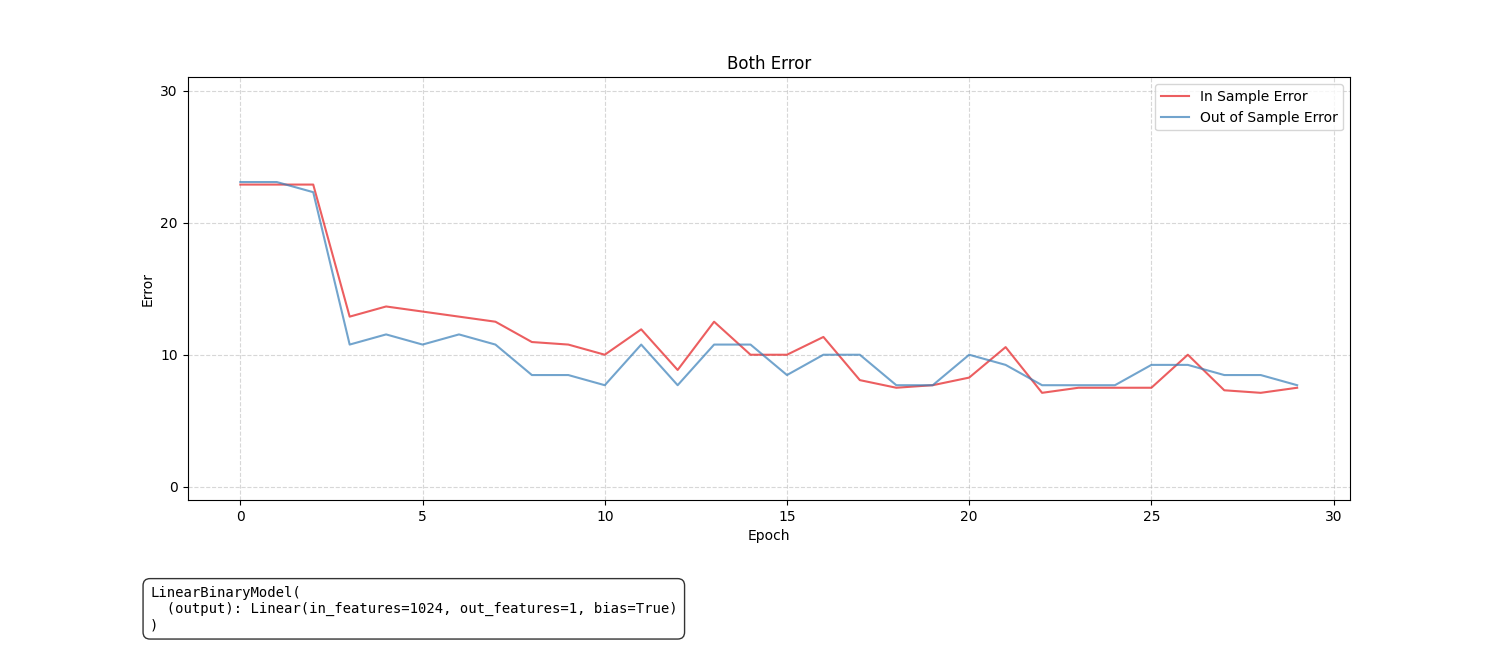
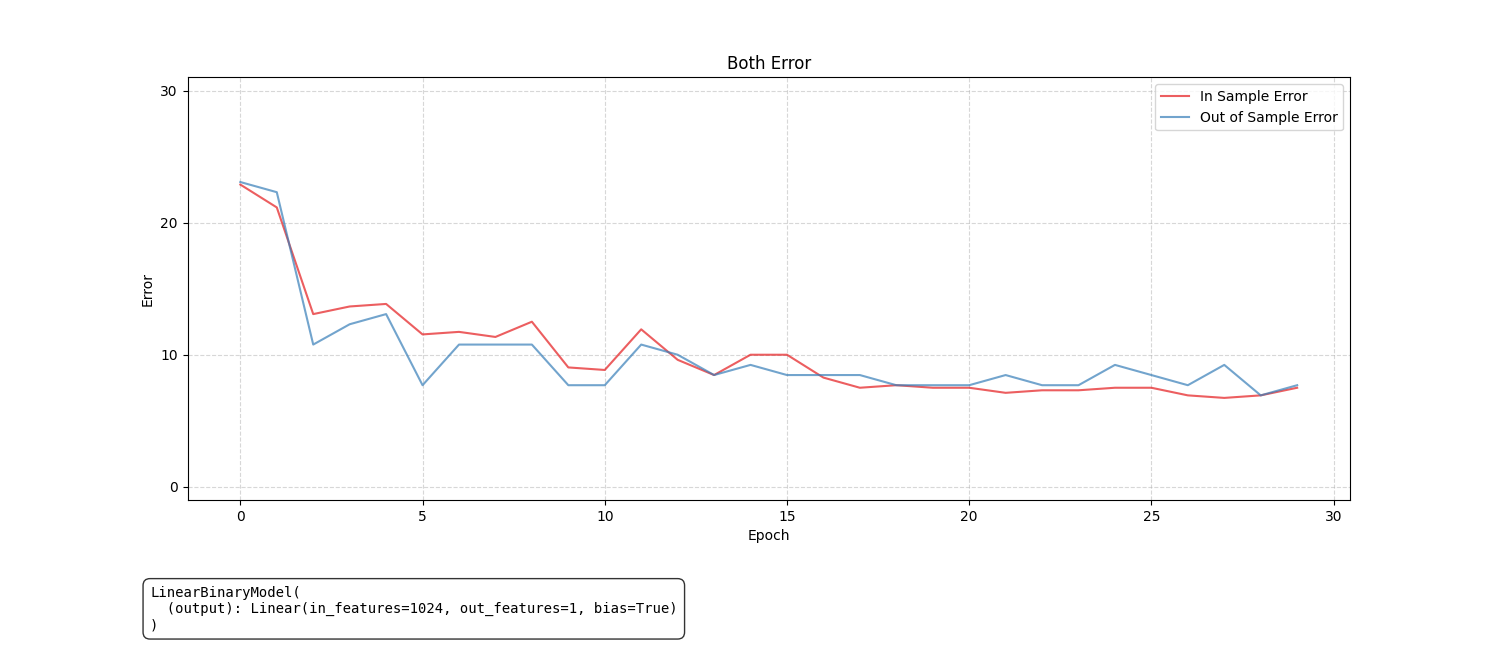
centralized the random_seed and made the model_loaded work

Changed region(s): [[0.184, 0.3721, 0.736, 0.6202], [0.736, 0.5581, 0.8587, 0.6202], [0.1533, 0.2791, 0.2147, 0.3721]]

diff --git a/train_linear_aelfric.py b/train_linear_aelfric.py
@@ -214,7 +214,7 @@ def load_data(config: dict) -> tuple[np.ndarray, np.ndarray, list[int], list[int
     ids = a_ids + u_ids
 
     # Randomly split the full works while keeping embeddings, IDs, and labels aligned
-    x_train, x_test, y_train, y_test, id_train, id_test = train_test_split(embeddings, y, ids, test_size=config["test_split"], random_state=config["random_seed"], stratify=y)
+    x_train, x_test, y_train, y_test, id_train, id_test = train_test_split(embeddings, y, ids, test_size=config["test_split"], stratify=y)
 
     # Save the Aelfric training embeddings for later use in predictions
     a_train_embeddings = x_train[np.array(y_train) == 1]  # Select embeddings where label is 1 (Aelfric)
@@ -230,7 +230,7 @@ labels: List of corresponding labels (1 for Aelfric, 0 for Unknown).
 num_samples: The number of samples to draw from each class.
 Returns: Two lists of concatenated embeddings.
 """
-def pair_embeddings(embs: list[np.ndarray], labels: list[int], num_samples:int = 250, random_seed: int = 42) -> tuple[list[np.ndarray], list[np.ndarray]]:
+def pair_embeddings(embs: list[np.ndarray], labels: list[int], num_samples:int = 250) -> tuple[list[np.ndarray], list[np.ndarray]]:
     a_embs = []
     u_embs = []
 
@@ -240,9 +240,9 @@ def pair_embeddings(embs: list[np.ndarray], labels: list[int], num_samples:int =
         else:
             u_embs.append(emb)
 
-    random.seed(random_seed)  # Ensure reproducibility for sampling
+    random.seed(config["random_seed"])  # Ensure reproducibility for sampling
     a_sample = random.sample(a_embs, k=min(num_samples, len(a_embs))) ### Eventually the samples need to be controlled better
-    random.seed(random_seed)  # Ensure reproducibility for sampling
+    random.seed(config["random_seed"])  # Ensure reproducibility for sampling
     u_sample = random.sample(u_embs, k=min(num_samples, len(u_embs)))
 
     aa_pairs = []
@@ -263,7 +263,7 @@ def pair_embeddings(embs: list[np.ndarray], labels: list[int], num_samples:int =
         for emb_b in a_sample:
             au_pairs.append(np.concatenate([emb_a, emb_b]))
 
-    random.seed(random_seed)  # Ensure reproducibility for sampling
+    random.seed(config["random_seed"])  # Ensure reproducibility for sampling
     au_sample = random.sample(au_pairs, k=min(num_samples*3, len(au_pairs)))  # Sample to limit size
 
     return aa_pairs, au_sample
@@ -283,7 +283,7 @@ def prepare_data(config: dict) -> tuple[np.ndarray, np.ndarray, np.ndarray, np.n
     print(f"Test Embeddings: {x_test} ({len(x_test)})")
     print(f"Test Labels: {y_test} ({len(y_test)})")
 
-    aa_pairs, au_pairs = pair_embeddings(x_train_old, y_train_old, num_samples=config["num_samples"], random_seed=config["random_seed"])
+    aa_pairs, au_pairs = pair_embeddings(x_train_old, y_train_old, num_samples=config["num_samples"])
 
     # --- Combine and label training pairs ---
     x_aa = np.stack(aa_pairs)
@@ -356,13 +356,13 @@ def train_linear_model(x_train: np.ndarray, y_train: np.ndarray, x_test: np.ndar
         model.eval()
 
         # After each epoch, save in-sample and out-of-sample accuracy
-        in_predictions = predict_linear_model(model, x_train, a_train_embeddings=None, random_seed=config["random_seed"])
+        in_predictions = predict_linear_model(model, x_train, a_train_embeddings=None)
         in_acc_total.append(accuracy(y_train, in_predictions)*100)
         in_accs = class_accuracy(y_train, in_predictions)
         in_acc_aelfric.append(in_accs["Aelfric"]*100)
         in_acc_unknown.append(in_accs["Unknown"]*100)
 
-        out_predictions = predict_linear_model(model, x_test, a_train_embeddings, random_seed=config["random_seed"])
+        out_predictions = predict_linear_model(model, x_test, a_train_embeddings)
         out_acc_total.append(accuracy(y_test, out_predictions)*100)
         out_accs = class_accuracy(y_test, out_predictions)
         out_acc_aelfric.append(out_accs["Aelfric"]*100)
@@ -382,7 +382,7 @@ x_new: New embeddings to classify (np.ndarray of shape (N, 1024) or (1024,)).
 a_train_embeddings: Optional Aelfric embeddings to pair with new embeddings for prediction.
 Returns: A list of predicted classes (+1 for Aelfric, 0 for Unknown) for each new embedding.
 """
-def predict_linear_model(model, x_new: np.ndarray, a_train_embeddings: np.ndarray = None, random_seed: int = 42) -> list[int]:
+def predict_linear_model(model, x_new: np.ndarray, a_train_embeddings: np.ndarray = None) -> list[int]:
     if a_train_embeddings is None:
         # Standard case (already 2048-dim)
         if x_new.ndim == 1:
@@ -402,7 +402,7 @@ def predict_linear_model(model, x_new: np.ndarray, a_train_embeddings: np.ndarra
         # Pair each single 1024-dim test embedding with all Aelfric train embeddings
         preds = []
         for test_emb in x_new:
-            pred = predict_single_embedding(model, test_emb, a_train_embeddings, random_seed=random_seed)
+            pred = predict_single_embedding(model, test_emb, a_train_embeddings)
             preds.append(pred)
         return preds
     
@@ -415,9 +415,9 @@ test_emb: A single embedding to classify (np.ndarray of shape (1024,)).
 a_train_embeddings: A list of Aelfric training embeddings to pair with the test embedding for prediction.
 Returns: A single predicted class (+1 for Aelfric, 0 for Unknown) for the test embedding based on the average score from the model.
 """
-def predict_single_embedding(model, test_emb: np.ndarray, a_train_embeddings: list[np.ndarray], random_seed: int = 42) -> int:
+def predict_single_embedding(model, test_emb: np.ndarray, a_train_embeddings: list[np.ndarray]) -> int:
     # Sample fewer Aelfric embeddings for speed
-    random.seed(random_seed)  # Ensure reproducibility for sampling
+    random.seed(config["random_seed"])  # Ensure reproducibility for sampling
     aelfrics = random.sample(a_train_embeddings.tolist(), k=min(len(a_train_embeddings), 100))
 
     pairs = [np.concatenate([a, test_emb]) for a in aelfrics]  # shape (N_a, 2048)
@@ -435,7 +435,7 @@ def predict_single_embedding(model, test_emb: np.ndarray, a_train_embeddings: li
     return 1 if avg_score > 0.5 else 0
 
 
-def log_test_data(model, x_train, y_train, x_test, y_test, a_train_embeddings, y_pred, random_seed=42):
+def log_test_data(model, x_train, y_train, x_test, y_test, a_train_embeddings, y_pred):
     model.eval()
 
     aelfric_scores = []
@@ -443,7 +443,7 @@ def log_test_data(model, x_train, y_train, x_test, y_test, a_train_embeddings, y
 
     for test_emb, true_label in zip(x_test, y_test):
         # Pair this test embedding with Aelfric reference embeddings
-        random.seed(random_seed)  # Ensure reproducibility for sampling
+        random.seed(config["random_seed"])  # Ensure reproducibility for sampling
         aelfrics = random.sample(
             a_train_embeddings.tolist(),
             k=min(len(a_train_embeddings), 100)
@@ -614,12 +614,12 @@ def main():
         x_train, y_train, x_test, y_test, a_train_embeddings = prepare_data(config)   
 
         # Find and print accuracies
-        y_pred = predict_linear_model(model, x_test, a_train_embeddings, random_seed=config["random_seed"])
+        y_pred = predict_linear_model(model, x_test, a_train_embeddings)
 
         acc_overall = accuracy(y_test, y_pred)
         class_acc = class_accuracy(y_test, y_pred)
 
-        log_test_data(model, x_train, y_train, x_test, y_test, a_train_embeddings, y_pred, random_seed=config["random_seed"])
+        log_test_data(model, x_train, y_train, x_test, y_test, a_train_embeddings, y_pred)
 
         logger.info(f"Overall test accuracy: {acc_overall*100:.2f}%")
         logger.info(f"Aelfric accuracy: {class_acc['Aelfric']*100:.2f}%")
@@ -635,12 +635,12 @@ def main():
         logger.info("Training complete.")
 
         # Find and print accuracies
-        y_pred = predict_linear_model(model, x_test, a_train_embeddings, random_seed=config["random_seed"])
+        y_pred = predict_linear_model(model, x_test, a_train_embeddings)
 
         acc_overall = accuracy(y_test, y_pred)
         class_acc = class_accuracy(y_test, y_pred)
 
-        log_test_data(model, x_train, y_train, x_test, y_test, a_train_embeddings, y_pred, random_seed=config["random_seed"])
+        log_test_data(model, x_train, y_train, x_test, y_test, a_train_embeddings, y_pred)
 
         logger.info(f"Overall test accuracy: {acc_overall*100:.2f}%")
         logger.info(f"Aelfric accuracy: {class_acc['Aelfric']*100:.2f}%")

diff --git a/train_linear_aelfric_1Input.py b/train_linear_aelfric_1Input.py
@@ -205,12 +205,12 @@ def load_data(config: dict) -> tuple[np.ndarray, np.ndarray, list[int], list[int
     ids = a_ids + u_ids
 
     # Randomly split the full works while keeping embeddings, IDs, and labels aligned
-    x_train, x_test, y_train, y_test, id_train, id_test = train_test_split(embeddings, y, ids, test_size=config["test_split"], random_state=config["random_seed"], stratify=y)
+    x_train, x_test, y_train, y_test, id_train, id_test = train_test_split(embeddings, y, ids, test_size=config["test_split"], stratify=y)
 
     # Save the Aelfric training embeddings for later use in predictions
-    a_train_embeddings = x_train[np.array(y_train) == 1]  # Select embeddings where label is 1 (Aelfric)
+  
 
-    return x_train, x_test, y_train, y_test, id_train, id_test, a_train_embeddings
+    return x_train, x_test, y_train, y_test, id_train, id_test
 
 
 """
@@ -221,7 +221,7 @@ labels: List of corresponding labels (1 for Aelfric, 0 for Unknown).
 num_samples: The number of samples to draw from each class.
 Returns: Two lists of concatenated embeddings.
 """
-def pair_embeddings(embs: list[np.ndarray], labels: list[int], num_samples:int = 250, random_seed: int = 42) -> tuple[list[np.ndarray], list[np.ndarray]]:
+def pair_embeddings(embs: list[np.ndarray], labels: list[int], num_samples:int = 250) -> tuple[list[np.ndarray], list[np.ndarray]]:
     a_embs = []
     u_embs = []
 
@@ -231,9 +231,9 @@ def pair_embeddings(embs: list[np.ndarray], labels: list[int], num_samples:int =
         else:
             u_embs.append(emb)
 
-    random.seed(random_seed)  # Ensure reproducibility for sampling
+    random.seed(config["random_seed"])  # Ensure reproducibility for sampling
     a_sample = random.sample(a_embs, k=min(num_samples, len(a_embs))) ### Eventually the samples need to be controlled better
-    random.seed(random_seed)  # Ensure reproducibility for sampling
+    random.seed(config["random_seed"])  # Ensure reproducibility for sampling
     u_sample = random.sample(u_embs, k=min(num_samples, len(u_embs)))
 
     aa_pairs = []
@@ -254,7 +254,7 @@ def pair_embeddings(embs: list[np.ndarray], labels: list[int], num_samples:int =
         for emb_b in a_sample:
             au_pairs.append(np.concatenate([emb_a, emb_b]))
 
-    random.seed(random_seed)  # Ensure reproducibility for sampling
+    random.seed(config["random_seed"])  # Ensure reproducibility for sampling
     au_sample = random.sample(au_pairs, k=min(num_samples*3, len(au_pairs)))  # Sample to limit size
 
     return aa_pairs, au_sample
@@ -391,9 +391,9 @@ test_emb: A single embedding to classify (np.ndarray of shape (1024,)).
 a_train_embeddings: A list of Aelfric training embeddings to pair with the test embedding for prediction.
 Returns: A single predicted class (+1 for Aelfric, 0 for Unknown) for the test embedding based on the average score from the model.
 """
-def predict_single_embedding(model, test_emb: np.ndarray, a_train_embeddings: list[np.ndarray], random_seed: int = 42) -> int:
+def predict_single_embedding(model, test_emb: np.ndarray, a_train_embeddings: list[np.ndarray]) -> int:
     # Sample fewer Aelfric embeddings for speed
-    random.seed(random_seed)  # Ensure reproducibility for sampling
+    random.seed(config["random_seed"])  # Ensure reproducibility for sampling
     aelfrics = random.sample(a_train_embeddings.tolist(), k=min(len(a_train_embeddings), 100))
 
     pairs = [np.concatenate([a, test_emb]) for a in aelfrics]  # shape (N_a, 2048)
@@ -411,7 +411,7 @@ def predict_single_embedding(model, test_emb: np.ndarray, a_train_embeddings: li
     return 1 if avg_score > 0.5 else 0
 
 
-def log_test_data(model, x_train, y_train, x_test, y_test, a_train_embeddings, y_pred, random_seed=42):
+def log_test_data(model, x_train, y_train, x_test, y_test, a_train_embeddings, y_pred):
     model.eval()
 
     aelfric_scores = []
@@ -419,7 +419,7 @@ def log_test_data(model, x_train, y_train, x_test, y_test, a_train_embeddings, y
 
     for test_emb, true_label in zip(x_test, y_test):
         # Pair this test embedding with Aelfric reference embeddings
-        random.seed(random_seed)  # Ensure reproducibility for sampling
+        random.seed(config["random_seed"])  # Ensure reproducibility for sampling
         aelfrics = random.sample(
             a_train_embeddings.tolist(),
             k=min(len(a_train_embeddings), 100)
@@ -579,10 +579,10 @@ def main():
 
     logger = setup_logging()
 
-    model_loaded = False  # Set to True if you want to load a pre-trained model instead of training a new one
+    model_loaded = True  # Set to True if you want to load a pre-trained model instead of training a new one
 
     if model_loaded:
-        model_path = "models/linear_model (94_76_99) (10_18_2026 22-32).pth"  # Update with your model path
+        model_path = "models/linear_model (92_67_100) (10_28_2026 18-57).pth"  # Update with your model path
         #model_path = "models/linear_model E(95_81_99) (10_12_2026 16-52).pth"
         model = load_model(model_path)
 
@@ -590,7 +590,7 @@ def main():
         x_train, x_test, y_train, y_test = prepare_data()   
 
         # Find and print accuracies
-        y_pred = predict_linear_model(model, x_test, a_train_embeddings, random_seed=config["random_seed"])
+        y_pred = predict_linear_model(model, x_test)
 
         acc_overall = accuracy(y_test, y_pred)
         class_acc = class_accuracy(y_test, y_pred)
